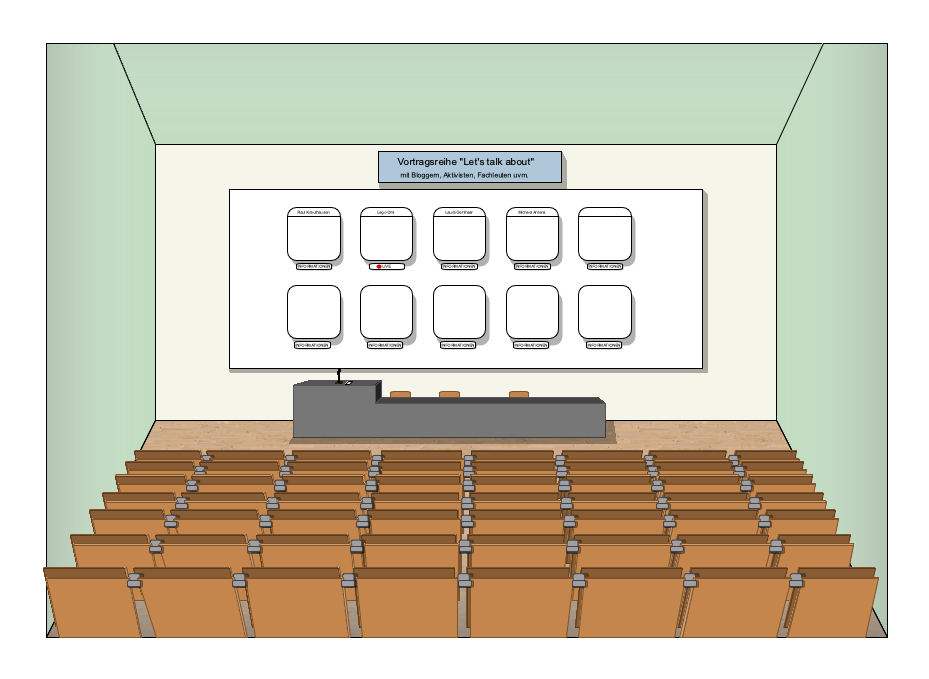
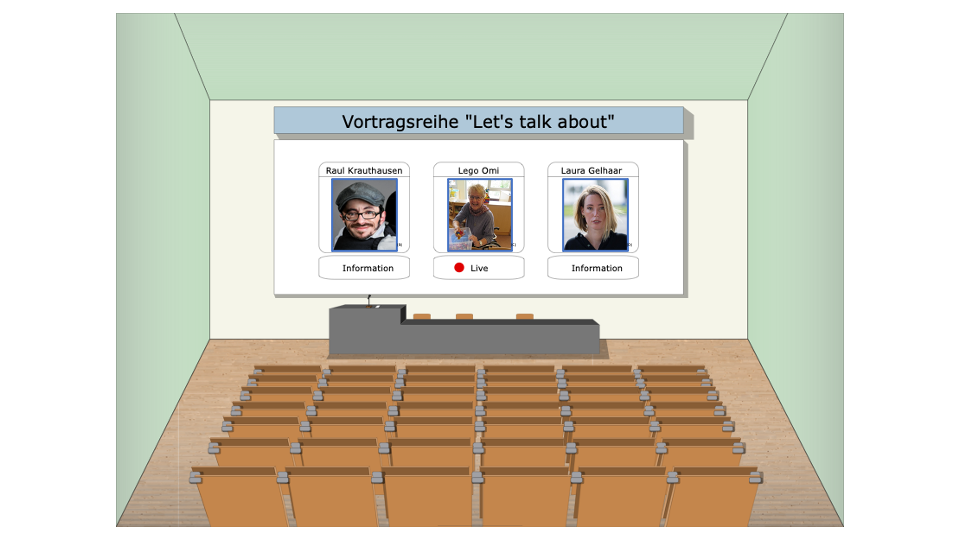
Added vortragsraum;

diff --git a/public/js/event.js b/public/js/event.js
@@ -108,6 +108,8 @@ class RoomLink{
                         document.location.href="/weltcafe"
                     } else if(this.link == "/dashboard") {
                         document.location.href="/dashboard"
+                    } else if(this.link == "/vortragsraum"){
+                        document.location.href="/vortragsraum"
                     }
 
                     console.log("enter room " + this.link)
@@ -220,17 +222,21 @@ class mediaFrame {
     dashboardElementList.push(new RoomLink("living", "Emotionale Räume", "#", "../img/icons/living.png", "", 1330, 360))
     dashboardElementList.push(new RoomLink("sticker", "Sticker Aktion", "#", "../img/icons/postit.svg", "", 1275, 270))
     dashboardElementList.push(new RoomLink("projector", "Kinosaal", "/kino", "../img/icons/projector.svg", "", 970, 250))
-    dashboardElementList.push(new RoomLink("theatre", "Vortragsraum", "#", "../img/icons/theatre.svg", "", 830, 410))
+    dashboardElementList.push(new RoomLink("theatre", "Vortragsraum", "/vortragsraum", "../img/icons/theatre.svg", "", 830, 410))
     dashboardElementList.push(new RoomLink("world", "Welt-Café", "/weltcafe", "../img/icons/world.svg", "", 1075, 790))
     let dashboardRoom = new Room("dashboard", "Hauptraum", "../img/backgrounds/rondell.png", dashboardElementList)
 
     let beratungElementList = []
-    beratungElementList.push(new RoomLink("lifeChat", "", "#", "../img/icons/magnifier.svg", "Live-Chat mit Fraue Hoene-Lindemann beitreten", 1150, 525))
-    beratungElementList.push(new RoomLink("site", "", "#", "../img/icons/magnifier.svg", "", 800, 500))
+    beratungElementList.push(new RoomLink("lifeChat", "", "#", "../img/icons/magnifier.svg", "Live-Chat mit Frau Hoene-Lindemann beitreten", 1175, 525))
+    beratungElementList.push(new RoomLink("site", "", "#", "../img/icons/magnifier.svg", "Lebenslauf von Frau Hoen-Lindemann", 970, 490))
     beratungElementList.push(new RoomLink("contact", "", "#", "../img/icons/magnifier.svg", "Weitere Kontaktmöglichkeiten", 1400, 500))
+    beratungElementList.push(new RoomLink("lindemannInfo", "", "#", "../img/icons/magnifier.svg", "Info-Broschüren, ausgewählt von Frau Hoene-Lindemann.", 1250, 630))
     let beratungRoom = new Room("lindemann", "Beratung", "../img/backgrounds/lindemann.png", beratungElementList)
 
+    let vortragsraum = new Room("vortrag", "Vortragsraum", "../img/backgrounds/vortragsraum.png", null)
+
     let weltcafeRoom = new Room("weltcafe", "Welt-Café", "../img/backgrounds/weltcafe.png", null)
+
 
 
 
@@ -253,8 +259,10 @@ class mediaFrame {
         currentRoom = kinoRoom
     } else if(room == "weltcafe") {
         currentRoom = weltcafeRoom
-    } else if(room == "beratung"){
+    } else if(room == "beratung") {
         currentRoom = beratungRoom
+    } else if(room == "vortragsraum"){
+        currentRoom = vortragsraum
     } else {
         currentRoom = dashboardRoom
     }

diff --git a/app.js b/app.js
@@ -47,6 +47,11 @@ app.get('/weltcafe', (req, res) =>{
     res.render('room')
 })
 
+app.get('/vortragsraum', (req, res) =>{
+    tmpRoom = "vortragsraum"
+    res.render('room')
+})
+
 app.get('/dashboard', (req, res) =>{
     tmpRoom = "dashboard"
     res.render('room')
